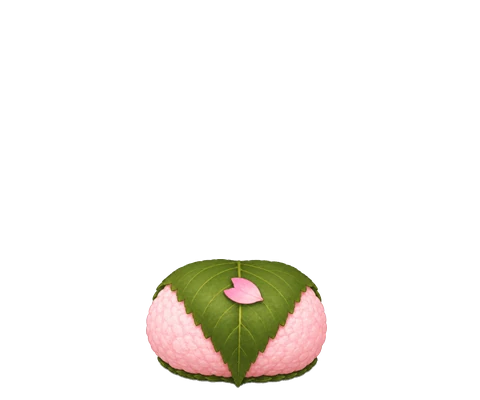
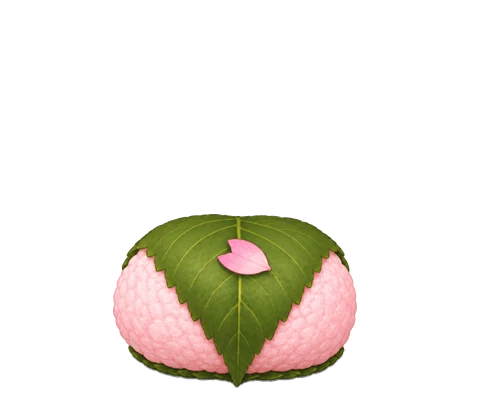
Add fan and sakura-toro, resize mochi, fix Sheleg's size in all three tubs
- New items: fan (uchiwa, engawa, spring-themed, reuses .wobble, price 230)
  and sakura-toro (floating-lantern-style item resting poolside in onsen,
  price 260). Both use inFront like lantern/kazaguruma/sakura-vase.
- fan.png needed CLEAR_HOLES (gap between the ribs and handle was leaving
  a patch of backdrop grey visible).
- mochi: OBJECT_SIZE 1.35x so its silhouette is convincingly wider than
  the cat's "head" pose peeking over it (now matches taiyaki's proportions,
  which already read right) -- was barely wider than the cat's own ears.
  Cat anchor also retuned (nudged up and off-centre) so the head doesn't
  sit dead in the middle of the mochi.
- Sheleg gets a 5% size reduction in all three onsen tubs (clay, hex,
  hinoki) -- she reads larger than the other cats there. Position is only
  nudged in the clay tub, confirmed visually; hex/hinoki keep their default
  position since each tub's rim sits differently.

Claude-Session: https://claude.ai/code/session_01Pkw8LBSwnZBu2yAEbnaNRH

Changed region(s): [[0.2188, 0.51, 0.75, 0.96]]

diff --git a/index.html b/index.html
@@ -337,7 +337,7 @@
     onigiri:  { room: 'shokudo', ja: 'おにぎり', tr: 'onigiri', en: 'rice ball', price: 110, pose: 'sleep', cat: { x: 50, y: 81.5 } },
     takoyaki: { room: 'shokudo', ja: 'たこ焼き', tr: 'takoyaki', en: 'takoyaki', price: 130, pose: 'lie', wobble: true, cat: { x: 80, y: 93 } },
     taiyaki:  { room: 'shokudo', ja: 'たい焼き', tr: 'taiyaki', en: 'taiyaki', price: 160, pose: 'head', cat: { x: 49.39, y: 69.75 } },
-    mochi:    { room: 'shokudo', ja: '餅', tr: 'mochi', en: 'mochi', price: 180, pose: 'head', cat: { x: 50, y: 69.5 } },
+    mochi:    { room: 'shokudo', ja: '餅', tr: 'mochi', en: 'mochi', price: 180, pose: 'head', cat: { x: 52.9, y: 57.2 } },
     // Food: set out at FOOD_SPOT, not one of the four spots above. No cat pose or visitor — see openFood().
     // duration is minutes until it is eaten up and removed from the bag. Ordered cheapest to most
     // expensive, kaiseki is the flagship. tamagoyaki joins here once its art arrives.
@@ -352,9 +352,10 @@
     kaiseki:  { room: 'shokudo', food: true, duration: 90, ja: '懐石', tr: 'kaiseki', en: 'formal multi-course set', price: 600, scale: 0.75 },
     'taiyaki-xl': { room: 'onsen', ja: '大きなたい焼き', tr: 'ookina taiyaki', en: 'big taiyaki', price: 280, pose: 'ride', poses: ['ride', 'half', 'soak'], cat: { x: 56.25, y: 65 }, offset: { rimon: { x: 0, y: 0.5, s: 1 }, pilpel: { x: 0, y: 0, s: 1.05 } } },
     stool:    { room: 'onsen', ja: '腰掛け', tr: 'koshikake', en: 'stool', price: 200, pose: 'sit', poses: ['sit', 'sleep'], cat: { x: 50, y: 68 }, poseOffset: { sleep: { x: 0, y: 2.8 } } },
-    'onsen-clay': { room: 'onsen', xl: true, poses: ['half', 'soak'], water: { x: 50, y: 23.9, w: 92.6, steamDy: 10.6 }, ja: '土風呂', tr: 'tsuchi-buro', en: 'clay bath', price: 300, pose: 'half', scale: 2, cat: { x: 50, y: 62 }, poseOffset: { half: { x: -7.4, y: -28.1 }, soak: { x: -7.4, y: -28.1 } } },
-    'onsen-hex': { room: 'onsen', xl: true, poses: ['half', 'soak'], water: { x: 50, y: 28.4, w: 93.0, steamDy: 10.6 }, poseOffset: { half: { x: 0, y: 1.8 } }, ja: '六角風呂', tr: 'rokkaku-buro', en: 'hexagonal bath', price: 380, pose: 'half', scale: 2, cat: { x: 50, y: 62 } },
-    'onsen-hinoki': { room: 'onsen', xl: true, poses: ['half', 'soak'], water: { x: 50, y: 31.5, w: 80.5, steamDy: 10.6 }, poseOffset: { half: { x: 0, y: -15.8 }, soak: { x: 0, y: -21.1 } }, ja: '檜風呂', tr: 'hinoki-buro', en: 'hinoki bath', price: 520, pose: 'half', scale: 2, cat: { x: 50, y: 62 } },
+    'sakura-toro': { room: 'onsen', ja: '灯籠', tr: 'tōrō', en: 'sakura lantern', price: 260, pose: 'sit', cat: { x: 78, y: 87.5 }, inFront: true },
+    'onsen-clay': { room: 'onsen', xl: true, poses: ['half', 'soak'], water: { x: 50, y: 23.9, w: 92.6, steamDy: 10.6 }, ja: '土風呂', tr: 'tsuchi-buro', en: 'clay bath', price: 300, pose: 'half', scale: 2, cat: { x: 50, y: 62 }, poseOffset: { half: { x: -7.4, y: -28.1 }, soak: { x: -7.4, y: -28.1 } }, offset: { sheleg: { x: 0, y: -1.1, s: 0.95 } } },
+    'onsen-hex': { room: 'onsen', xl: true, poses: ['half', 'soak'], water: { x: 50, y: 28.4, w: 93.0, steamDy: 10.6 }, poseOffset: { half: { x: 0, y: 1.8 } }, ja: '六角風呂', tr: 'rokkaku-buro', en: 'hexagonal bath', price: 380, pose: 'half', scale: 2, cat: { x: 50, y: 62 }, offset: { sheleg: { x: 0, y: 0, s: 0.95 } } },
+    'onsen-hinoki': { room: 'onsen', xl: true, poses: ['half', 'soak'], water: { x: 50, y: 31.5, w: 80.5, steamDy: 10.6 }, poseOffset: { half: { x: 0, y: -15.8 }, soak: { x: 0, y: -21.1 } }, ja: '檜風呂', tr: 'hinoki-buro', en: 'hinoki bath', price: 520, pose: 'half', scale: 2, cat: { x: 50, y: 62 }, offset: { sheleg: { x: 0, y: 0, s: 0.95 } } },
 
     ball:     { room: 'engawa', ja: '毬', tr: 'temari', en: 'ball', price: 120, pose: 'lie', wobble: true, cat: { x: 73, y: 93 } },
     yarn:     { room: 'engawa', ja: '毛糸', tr: 'keito', en: 'ball of yarn', price: 200, pose: 'lie', wobble: true, cat: { x: 73, y: 94 } },
@@ -363,7 +364,8 @@
     // wheel: the spinning pinwheel head, a separate free-floating layer from the stand (see FLOATING
     // in process_art.py) so it can be positioned at the stick's tip and rotated independently in CSS,
     // instead of being baseline-composed with the stand onto one shared canvas like every other item.
-    kazaguruma: { room: 'engawa', ja: '風車', tr: 'kazaguruma', en: 'pinwheel', price: 340, pose: 'sit', cat: { x: 72, y: 87.5 }, wheel: { x: 50.1, y: 47.5, w: 27.5 }, inFront: true }
+    kazaguruma: { room: 'engawa', ja: '風車', tr: 'kazaguruma', en: 'pinwheel', price: 340, pose: 'sit', cat: { x: 72, y: 87.5 }, wheel: { x: 50.1, y: 47.5, w: 27.5 }, inFront: true },
+    fan:      { room: 'engawa', ja: '団扇', tr: 'uchiwa', en: 'fan', price: 230, pose: 'sit', wobble: true, cat: { x: 76, y: 87.5 }, inFront: true },
   };
   const POSE_LABEL = { sit: 'sitting', sleep: 'napping', lie: 'lying', head: 'peeking', ride: 'riding', face: 'looking out of', half: 'soaking in', soak: 'soaking' };
   // Poses that have art for every cat.

diff --git a/tools/process_art.py b/tools/process_art.py
@@ -51,7 +51,9 @@ SIT_HEIGHT = 250      # each cat's sitting pose is scaled to this content height
 CAT_SIZE = 0.85       # cats in the layers are drawn at this fraction of SIT_HEIGHT. Measured
                       # against the Tapuz combos (the reference): their cat is about 0.85 of
                       # the layer's sitting height, while the objects match the combos at 1.0
-OBJECT_SIZE = {'ball': 0.8, 'yarn': 0.8, 'takoyaki': 0.7, 'onigiri': 1.2, 'taiyaki': 1.05, 'taiyaki-xl': 1.5}  # extra size factor per object, on top of the shared item scale (cats are unchanged)
+OBJECT_SIZE = {'ball': 0.8, 'yarn': 0.8, 'takoyaki': 0.7, 'onigiri': 1.2, 'taiyaki': 1.05, 'taiyaki-xl': 1.5, 'mochi': 1.35}  # extra size factor per object, on top of the shared item scale (cats are unchanged).
+# mochi: sized up so its silhouette is convincingly wider than the cat's "head" pose peeking over it
+# (it was barely wider than the cat's own ears before -- compare taiyaki, which already reads right).
 SHADOW_CUT = {'mochi': 0, 'taiyaki': 0, 'taiyaki-xl': 0, 'redpanda': 0.8}   # items whose ground shadow is removed, from this fraction of the height down (see drop_shadow)
 OBJECT_SHIFT = {'ball': -60, 'yarn': -20, 'takoyaki': -28, 'taiyaki': 12}  # canvas px, sideways. Keeps the ball out of the paw's reach (the cat sits to its right)
 REF_CAT = 'tapuz'     # items use the same scale as this cat's sitting pose, so sizes carry over
@@ -81,7 +83,7 @@ FRONT_WALLS = {
 
 POSE_RE = re.compile(r'^(?P<cat>[a-z]+)-(?P<pose>sit|sleep|lie|head|ride|face|half|soak)(?:-(?P<n>\d+))?$')
 # Items where the backdrop seen through gaps (e.g. between a stool's legs) should be transparent too.
-CLEAR_HOLES = {'stool', 'mtchirashi'}  # mtchirashi: the gap between the prawn's feelers
+CLEAR_HOLES = {'stool', 'mtchirashi', 'fan'}  # mtchirashi: the gap between the prawn's feelers; fan: the gap between the ribs where they meet the handle
 # Items made from another item's raw image, at their own size (e.g. the XL taiyaki the cat rides).
 ITEM_SOURCE = {'taiyaki-xl': 'taiyaki'}
 # Items whose raw file name is not a plain slug (spaces, or a name from the generator), under the name the game uses.
